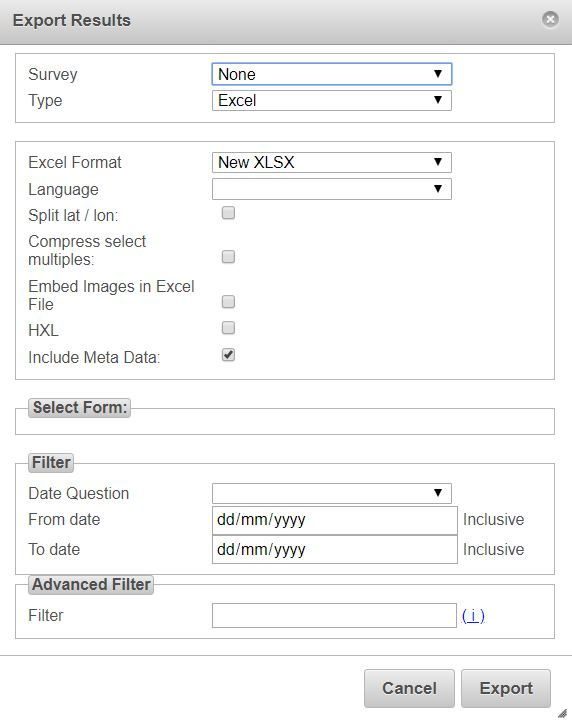
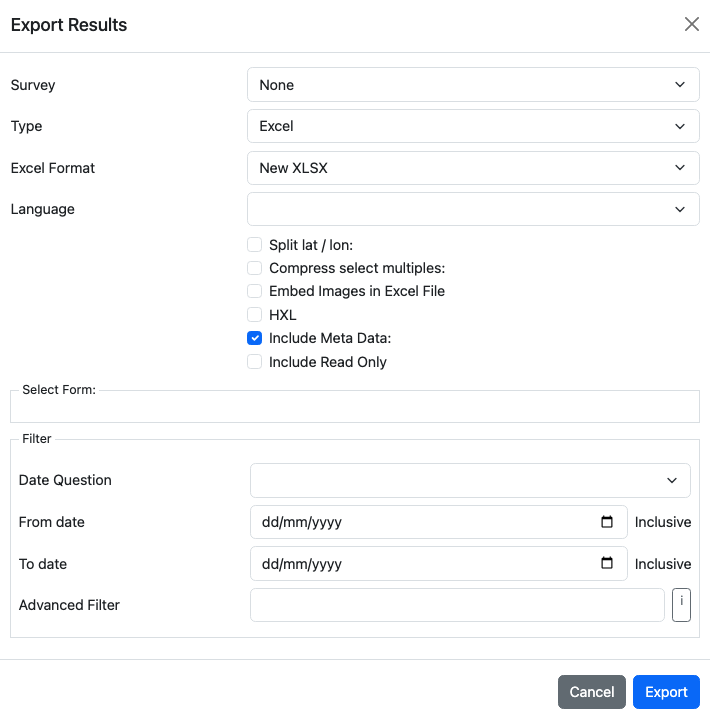
Added image from BS5 analysis to export documentation

Changed region(s): [[0.0, 0.0, 1.0, 0.8873], [0.6241, 0.9179, 1.0, 1.0]]

diff --git a/analysis-export.rst b/analysis-export.rst
@@ -4,17 +4,17 @@ Export
 .. contents::
  :local:
  
-Select the “Export” menu in the analysis page. 
+Select the **Export** menu on the analysis page.
 
 .. figure::  _images/export1.jpg
    :align:   center
-   :width: 	 400px
-   :alt:     Export Dialog
+   :width:   400px
+   :alt:     Export dialog
 
    Exporting Results
 
-The default output format will be XLS. 
-Select your survey and press the “Export” button which will download the survey.
+The default output format is XLS.
+Select your survey, then click **Export** to download the data.
 
 Options
 -------
@@ -24,40 +24,40 @@ Type
 
 *  XLS
 *  CSV
-*  Shape File
-*  Media.  A zip file containing media.  The name of each media file will be taken from questions that can be 
+*  Shapefile
+*  Media. A ZIP file containing media. The name of each media file is taken from questions
    specified in the dialog.
 *  KML
 *  Stata
 *  SPSS
 
-Depending on the type of export that is selected other options will change.
+Depending on the selected export type, other options change.
 
 XLS Options
 +++++++++++
 
-*  Excel Format.  Specify XLSX or the older HTML format.
-*  Language.  If specified an extra line will be added to the header containing the labels for the selected language.
-*  Compress select multiples.  If selected the choices for select multiples will be put into a single cell with each 
-   choice separated from the others by a space.  If not selected then a column will be exported for each choice with a 
-   value of "1" if the choice was selected or "0" if not selected.
-*  Split Lat / Lon.  If selected latitude and longitude for geopoint questions will be put in separate columns.
-*  Embed images in Excel File.  If selected images will be included in the exported excel file. The size of the images will be set to 300 pixels in width.  Clicking on the image in the spreadsheet will open the full size image.
-*  Include Meta Data.  Select to include meta data in the export.
+*  Excel format. Specify XLSX or the older HTML format.
+*  Language. If selected, an extra header row is added with labels for the selected language.
+*  Compress select multiples. If selected, choices for select-multiple questions are exported
+   in one cell, separated by spaces. If not selected, each choice is exported in its own column,
+   with a value of ``1`` if selected and ``0`` if not selected.
+*  Split lat/lon. If selected, latitude and longitude for geopoint questions are exported in
+   separate columns.
+*  Embed images in Excel file. If selected, images are included in the exported Excel file.
+   Image width is set to 300 pixels. Click an image in the spreadsheet to open the full-size image.
+*  Include metadata. Select to include metadata in the export.
 
 
 Select Form
 +++++++++++
 
-When a survey is selected a hierarchical list of the forms will be shown here.  From main Form download
-through the children and the children's children.  If you select a sub form then that form and all its 
-parent forms will be exported.
+When a survey is selected, a hierarchical list of forms is shown here.
+
+*  Select the main form to export just the data in the main form.
+*  Select a subform to export that subform and its parent forms.
 
 Filters
 +++++++
 
-The data exported can be filtered by date range and using the advanced filter.
-
-
-
-
+You can filter exported data by date range and by using the advanced filter.
+For details, see `Help on specifying advanced filters <https://www.smap.com.au/docs/server-expressions.html>`_.
